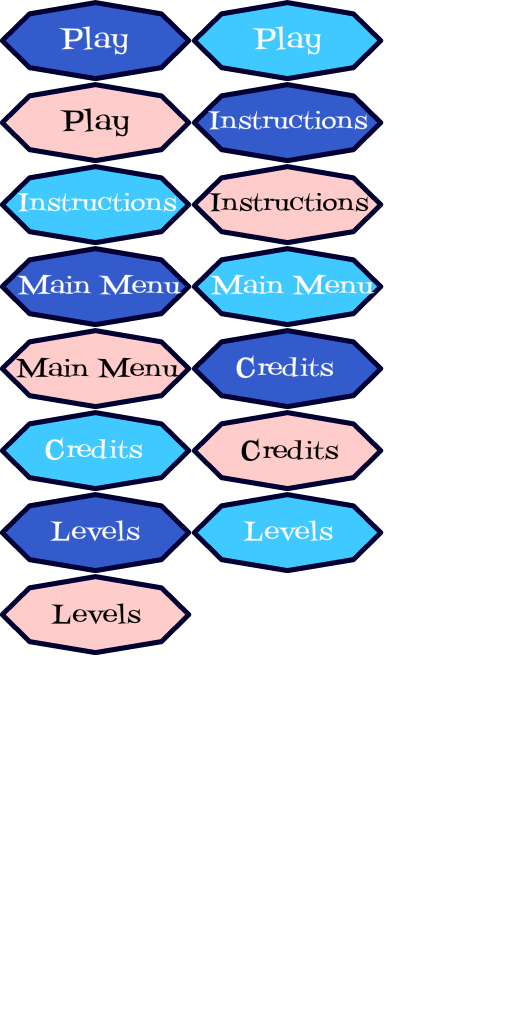
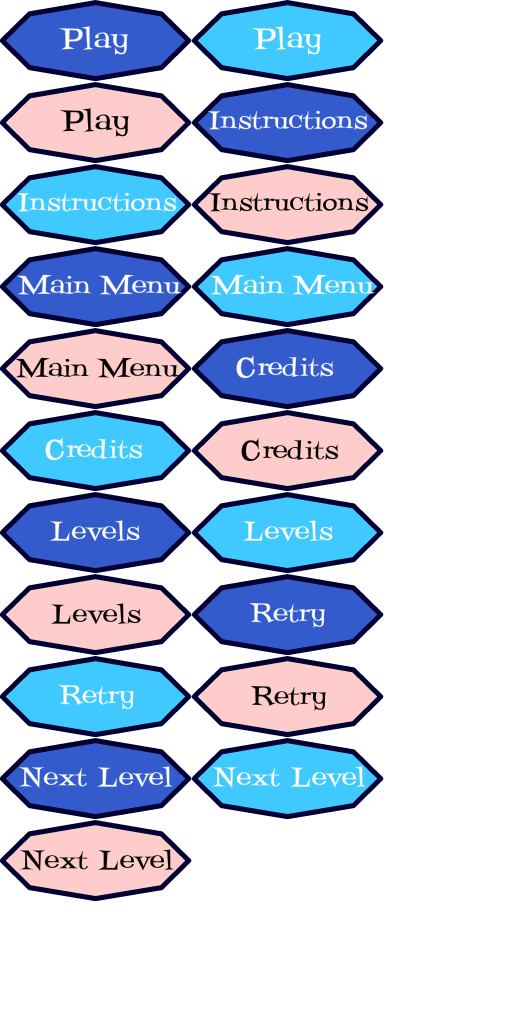
updated buttons graphic to have a retry and next level button

Changed region(s): [[0.0, 0.5625, 0.75, 0.9062]]

diff --git a/Tribble Defense/assets/images/buttons.js b/Tribble Defense/assets/images/buttons.js
@@ -2,7 +2,7 @@
 ButtonTime = function() {
 	this.initialize();
 }
-ButtonTime._SpriteSheet = new createjs.SpriteSheet({images: ["buttons.png"], frames: [[0,0,192,82,0,93.35,41],[192,0,192,82,0,94.35,41],[0,82,192,82,0,94.35,41],[192,82,192,82,0,93.35,41],[0,164,192,82,0,94.35,41],[192,164,192,82,0,94.35,41],[0,246,192,82,0,93.35,41],[192,246,192,82,0,94.35,41],[0,328,192,82,0,94.35,41],[192,328,192,82,0,93.35,41],[0,410,192,82,0,94.35,41],[192,410,192,82,0,94.35,41],[0,492,192,82,0,93.35,41],[192,492,192,82,0,94.35,41],[0,574,192,82,0,94.35,41]]});
+ButtonTime._SpriteSheet = new createjs.SpriteSheet({images: ["buttons.png"], frames: [[0,0,192,82,0,93.35,41],[192,0,192,82,0,94.35,41],[0,82,192,82,0,94.35,41],[192,82,192,82,0,93.35,41],[0,164,192,82,0,94.35,41],[192,164,192,82,0,94.35,41],[0,246,192,82,0,93.35,41],[192,246,192,82,0,94.35,41],[0,328,192,82,0,94.35,41],[192,328,192,82,0,93.35,41],[0,410,192,82,0,94.35,41],[192,410,192,82,0,94.35,41],[0,492,192,82,0,93.35,41],[192,492,192,82,0,94.35,41],[0,574,192,82,0,94.35,41],[192,574,192,82,0,93.35,41],[0,656,192,82,0,94.35,41],[192,656,192,82,0,94.35,41],[0,738,192,82,0,93.35,41],[192,738,192,82,0,94.35,41],[0,820,192,82,0,94.35,41]]});
 var ButtonTime_p = ButtonTime.prototype = new createjs.Sprite();
 ButtonTime_p.Sprite_initialize = ButtonTime_p.initialize;
 ButtonTime_p.initialize = function() {
